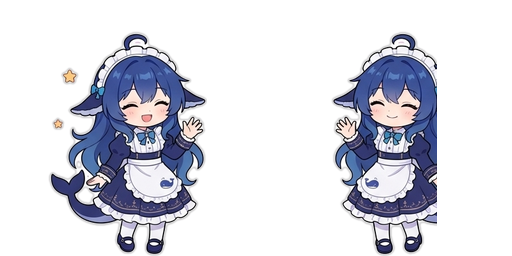
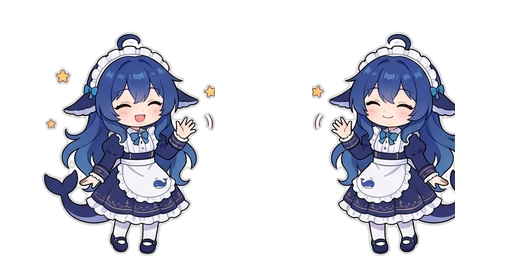
fix(assets): 帧范围=轮廓分组——放宽80px + 吸收相邻装饰件
- welcome 第2帧右半被裁：水平格子边界+45px 放宽仍不够（挥手手臂超出）→ 放宽加大到 80px
- celebrate 星星被裁：最大连通域只保留角色本体，星星是独立小连通域被排除 → 改为 frame_extent 轮廓分组（最大域=角色 + 吸收质心在角色bbox外扩14px内的连通域=装饰件；邻格角色质心远离→排除）
- 统一缩放因子基于角色高度（非含装饰范围），星星不会撑高
- 效果：welcome 帧2 完整；celebrate x 范围 27~229 含星星
- 验证：web 无崩溃、assets 200、冒烟 OK

Changed region(s): [[0.0625, 0.125, 0.4375, 1.0], [0.5938, 0.125, 0.9062, 1.0]]

diff --git a/scripts/slice-sheet.py b/scripts/slice-sheet.py
@@ -319,17 +319,18 @@ def detect_grid(img, max_cells=8):
     return row_bounds, col_bounds
 
 
-def largest_blob_bbox(cell):
-    """轮廓法：cell 内 4-连通**最大连通域**的 bbox。
-    取代简单 alpha 包围盒——格子放宽后邻格角色的小块会误入，包围盒会包含它们；
-    最大连通域只取角色本体（邻块是独立小连通域，被排除）。"""
+def frame_extent(cell, margin=14):
+    """轮廓分组取帧范围：4-连通标注全部连通域。
+    最大连通域 = 角色本体；**吸收与角色 bbox 相邻/相交的小块**（装饰如五角星、
+    爱心——独立小连通域，若只取最大域会被裁掉）；邻格角色质心远离 → 排除。
+    返回 (union_bbox, 角色bbox)。"""
     from collections import deque
 
     alpha = np.asarray(cell.getchannel('A'))
     mask = alpha > 40
     h, w = mask.shape
     visited = np.zeros_like(mask)
-    best = None
+    comps = []
     for y0 in range(h):
         for x0 in range(w):
             if not mask[y0, x0] or visited[y0, x0]:
@@ -342,49 +343,60 @@ def largest_blob_bbox(cell):
             while q:
                 y, x = q.popleft()
                 area += 1
-                if x < minx:
-                    minx = x
-                if x > maxx:
-                    maxx = x
-                if y < miny:
-                    miny = y
-                if y > maxy:
-                    maxy = y
+                minx = min(minx, x)
+                maxx = max(maxx, x)
+                miny = min(miny, y)
+                maxy = max(maxy, y)
                 for ny, nx in ((y - 1, x), (y + 1, x), (y, x - 1), (y, x + 1)):
                     if 0 <= ny < h and 0 <= nx < w and mask[ny, nx] and not visited[ny, nx]:
                         visited[ny, nx] = True
                         q.append((ny, nx))
-            if best is None or area > best[0]:
-                best = (area, (minx, miny, maxx, maxy))
-    return best[1] if best else None
+            comps.append((area, (minx, miny, maxx, maxy)))
+    if not comps:
+        return None, None
+    comps.sort(key=lambda c: -c[0])
+    char_bb = comps[0][1]
+    cx0, cy0, cx1, cy1 = char_bb
+    # 吸收：质心在角色 bbox 外扩 margin 内的连通域（装饰件）
+    keep = [char_bb]
+    for area, bb in comps[1:]:
+        mx, my = (bb[0] + bb[2]) / 2, (bb[1] + bb[3]) / 2
+        if cx0 - margin <= mx <= cx1 + margin and cy0 - margin <= my <= cy1 + margin:
+            keep.append(bb)
+    ux0 = min(b[0] for b in keep)
+    uy0 = min(b[1] for b in keep)
+    ux1 = max(b[2] for b in keep)
+    uy1 = max(b[3] for b in keep)
+    return (ux0, uy0, ux1, uy1), char_bb
 
 
-def build_state_sheet(img, row_bounds, col_bounds, row, cols, size, scale=0.88, expand=45):
+def build_state_sheet(img, row_bounds, col_bounds, row, cols, size, scale=0.88, expand=80):
     """把一行（同一状态的帧）做成帧 sheet（轮廓法逐对象配准）：
-    先抠图（调用方完成）→ **格子垂直放宽 expand px**（格子边界不再切角色头顶）→
-    每帧取**最大连通域** bbox（排除邻格误入的小块）→ 统一缩放因子 → 底中对齐。
-    这是用户指点的正确顺序：宽松取域 + 轮廓定位，避免过裁与邻图误入。"""
+    先抠图（调用方完成）→ **格子四向放宽 expand px**（格子边界不再切角色）→
+    每帧取**轮廓分组范围**（最大连通域=角色 + 吸收相邻装饰件；排除邻格角色）→
+    统一缩放因子 → 底中对齐。"""
     frames = []
     for c in cols:
         (yt, yb), (xl, xr) = row_bounds[row], col_bounds[c]
-        # 放宽：格子边界可能切进角色（头顶被裁/邻图误入的根因）；轮廓法会重新定位本体
         cx0 = max(0, xl - expand)
         cx1 = min(img.width, xr + expand)
         cy0 = max(0, yt - expand)
         cy1 = min(img.height, yb + expand)
         cell = img.crop((cx0, cy0, cx1, cy1))
-        bb = largest_blob_bbox(cell)
+        bb, char_bb = frame_extent(cell)
         if bb is None:
             continue
-        frames.append((cell, bb))
+        frames.append((cell, bb, char_bb))
     if not frames:
         return None, 0
-    hmax = max(bb[3] - bb[1] for _, bb in frames)
+    # 统一缩放因子：基于各帧**角色**（非含装饰的范围）的最大高度，避免星星撑高
+    hmax = max(bb[3] - bb[1] for _, _, bb in frames)
     if hmax <= 0:
         return None, 0
-    s = (size * scale) / hmax  # 统一缩放因子
+    s = (size * scale) / hmax
     norm = []
-    for cell, (x0, y0, x1, y1) in frames:
+    for cell, bb, _ in frames:
+        x0, y0, x1, y1 = bb
         if x1 <= x0 or y1 <= y0:
             continue
         f = cell.crop((x0, y0, x1, y1))
